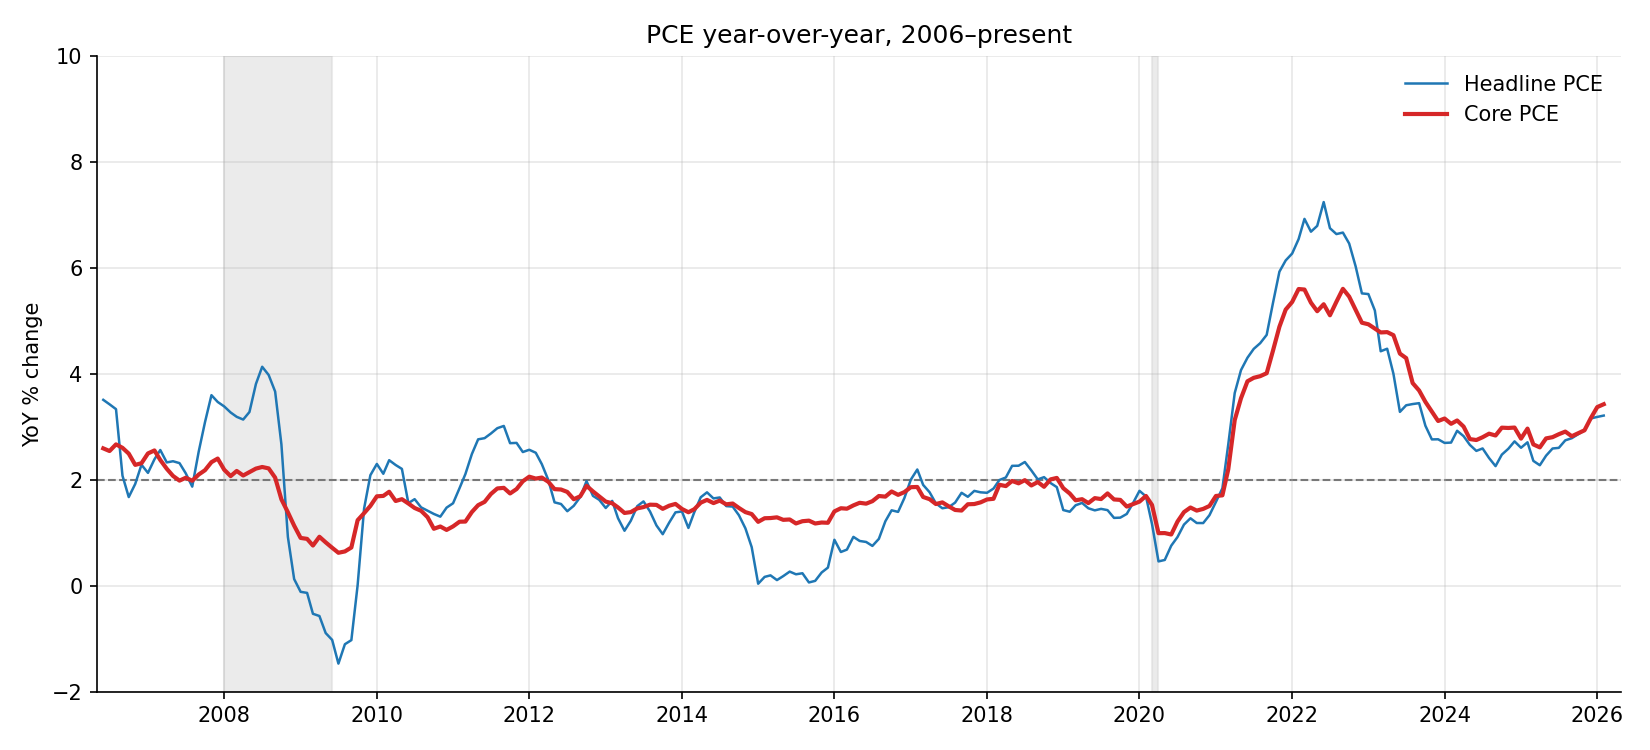
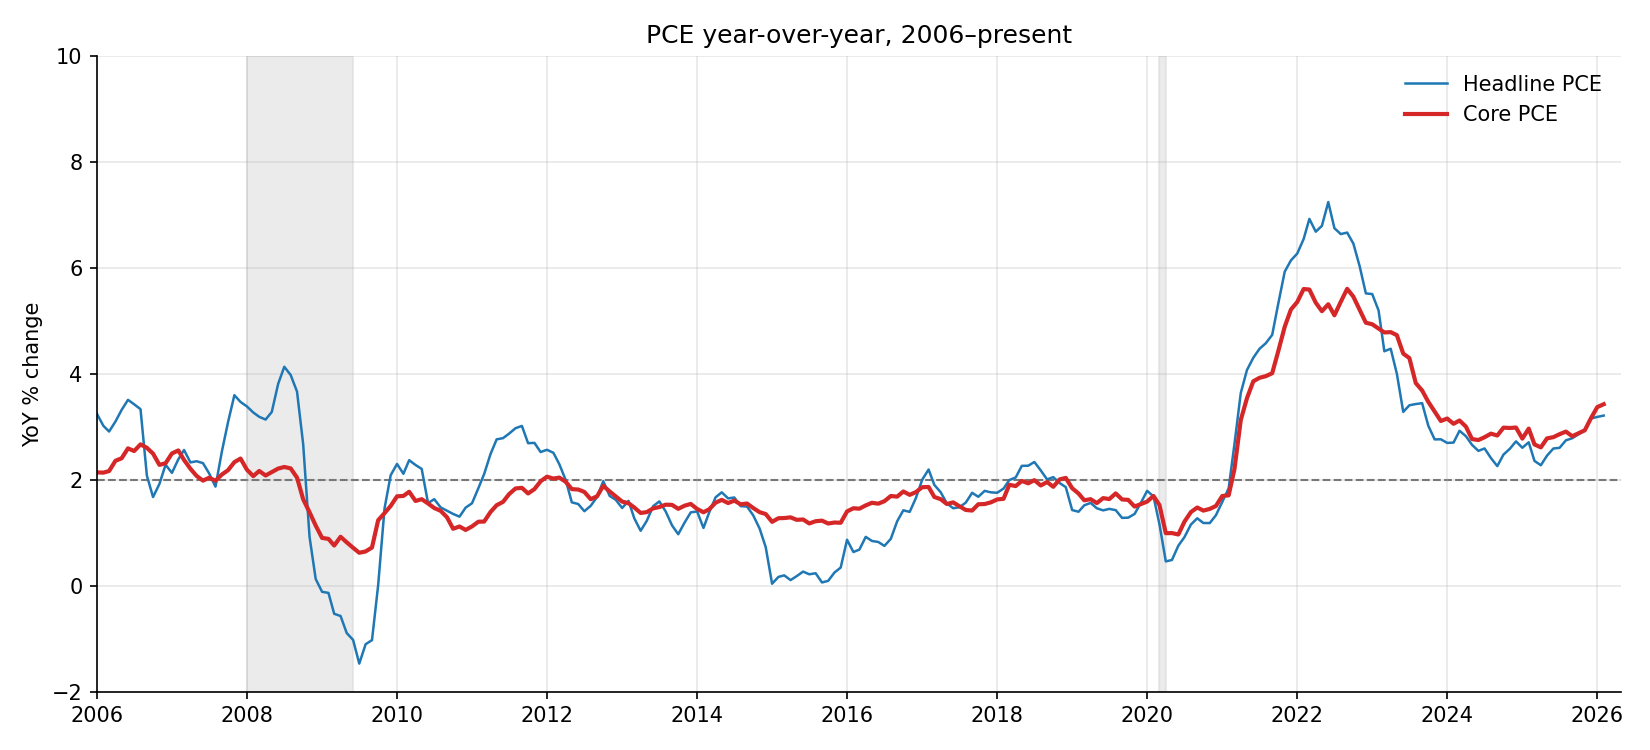
Standardize macro start date at 2006-01-01 (#12)
Document the convention in CLAUDE.md (new "Macro data conventions" section
between Path handling and Secrets) and apply it to the existing scripts:

- inflation_pull.py: chart_start hardcoded to 2006-01-01 with a 12-month
  buffer back to 2005-01-01 for YoY computation. Replaces the rolling
  20-year window so the chart's left edge no longer drifts forward each year.
- yield_curve_pull.py: start hardcoded to 2006-01-01 (was end - 20y, which
  was approximately 2006 today but drifts).
- credit_spreads_pull.py: already starts at 2006-01-01 in spec; effective
  window remains the FRED-served 3 years per the existing top-of-file note.

Outputs verified: yield_curve starts 2006-01-03 (first trading day),
inflation starts 2006-01-01, credit_spreads starts 2023-04-25 (FRED
restriction, documented in-script per the new convention's exception bullet).

diff --git a/macro/inflation_pull.py b/macro/inflation_pull.py
@@ -1,4 +1,4 @@
-from datetime import datetime, timedelta
+from datetime import datetime
 from pathlib import Path
 import sys
 
@@ -17,10 +17,10 @@ from shared.fred_helpers import (
 fred = get_fred_client()
 
 end = datetime.today()
-chart_start = end - timedelta(days=365 * 20)
-# Pull ~13 months of history before chart_start so YoY is defined at the chart's
-# left edge rather than starting blank for the first year.
-data_start = chart_start - timedelta(days=400)
+chart_start = datetime(2006, 1, 1)
+# Pull a 12-month buffer of prior history so YoY is defined at chart_start
+# rather than starting blank for the first year.
+data_start = datetime(2005, 1, 1)
 
 series = {
     "CPI_headline": "CPIAUCSL",

diff --git a/macro/yield_curve_pull.py b/macro/yield_curve_pull.py
@@ -1,4 +1,4 @@
-from datetime import datetime, timedelta
+from datetime import datetime
 from pathlib import Path
 import sys
 
@@ -17,7 +17,7 @@ from shared.fred_helpers import (
 fred = get_fred_client()
 
 end = datetime.today()
-start = end - timedelta(days=365 * 20)
+start = datetime(2006, 1, 1)
 
 series = {
     "10Y": "DGS10",

diff --git a/CLAUDE.md b/CLAUDE.md
@@ -20,6 +20,13 @@ Personal investing research repo. `macro/` holds individual scripts that pull ma
 ## Path handling
 All scripts must use `Path(__file__).resolve().parent` to anchor file paths to the script's location, so scripts work regardless of working directory.
 
+## Macro data conventions
+- All macro/ scripts default to a start date of 2006-01-01. This window includes the GFC and COVID — the two stress events most relevant for current investing decisions — and keeps x-axes comparable across charts.
+- Use end = datetime.today() for the end date.
+- If a FRED series doesn't go back to 2006, start at the earliest available date and document the exception in a comment at the top of the script.
+- For derived series (e.g. YoY % change) that need lookback data, fetch with a buffer (e.g. 2005-01-01) but filter the displayed/charted/saved data to start at 2006-01-01 so all macro charts have aligned x-axes.
+- When computing reference statistics (median, percentile rank, min/max) for chart annotations, compute over the 2006+ window (what's on the chart), not the full series history.
+
 ## Secrets and environment
 - `.env` at project root holds all API keys; always loaded via `python-dotenv`
 - `.env` is gitignored; never commit, never paste in chat, never hardcode
